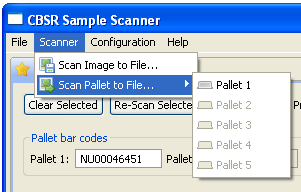
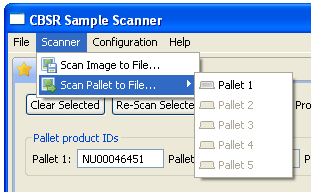
working on user manual

diff --git a/docs/userGuide/scan_and_decode.tex b/docs/userGuide/scan_and_decode.tex
@@ -1,8 +1,6 @@
 \chapter{Scanning and Decoding}
+This chapter discusses how to use the application for scanning and decoding.
 
-The first time the application is run a pallet must be configured prior to
-scanning and decoding pallets. Please see chapter \ref{chap:configuration} for
-instructions on how to configure one or more pallets.
 \begin{figure}[H]
   \centering
   \scalebox{0.35}
@@ -16,6 +14,8 @@ screen will show a decode resutls table for each pallet that is enabled.
 
 To scan one or more pallets follow these steps:
 \begin{enumerate}
+\item If this is the first time using the application please configure at least
+  one pallet \textbf{plate} (see section \ref{sec:plate_positions}) .
 \item Select the scanning profile to be used. Leave the selection on \emph{All}
   if none have been defined.
 \item Enter the pallet barcodes into the pallet barcode text boxes. A USB
@@ -54,4 +54,65 @@ To scan one or more pallets follow these steps:
   clear the product ID text boxes and start scanning a new pallet.
 \end{enumerate}
 
+\section{Error Checking}
+To avoid human error, the application remembers the product IDs of the pallets
+that have been previously scanned. If it detects a duplicate product ID, the
+application will display the dialog box shown in figure
+\ref{fig:duplicate_pallet_id}.
+\begin{figure}[H]
+  \centering
+  \scalebox{0.35}
+	   { \includegraphics*{screenshots/scan_and_decode/duplicate_pallet_id_dialog} }
+	   \caption{Warning dialog displayed when a duplicate pallet ID detected.}
+	   \label{fig:duplicate_pallet_id}
+\end{figure}
+You are given the option of continuing to scan the pallet or cancel the
+scan. If more than one plate is enabled, the other pallets will be decoded.
+
 \section{Multiple Tabs}
+The application has the ability to display decode information on mutiple
+tabs. This may be useful when decoding many pallets and the user wishes to keep
+the information displayed on the screen. The user can quickly switch between
+the two windows by clicking on their corresponding tabs.
+\begin{figure}[H]
+  \centering
+  \scalebox{0.35}
+	   { \includegraphics*{screenshots/scan_and_decode/multiple_tabs} }
+	   \caption{Main window with multiple tabs.}
+	   \label{fig:multiple_tabs}
+\end{figure}
+The tab's name displays the date and time that it was created.
+
+Tab's can also be rearranged by clicking on the tab and dragging it. Figure
+\ref{fig:split_tabs} shows two tabs split horizontally. This was done by
+clicking and dragging the tab down the window until the icon under the mouse
+changes to a down arrow.
+\begin{figure}[H]
+  \centering
+  \scalebox{0.35}
+	   { \includegraphics*{screenshots/scan_and_decode/split_tabs} }
+	   \caption{Split tabs.}
+	   \label{fig:split_tabs}
+\end{figure}
+
+Note that a tab can be closed at any time by pressing the \textbf{X} on the tab
+title. The tab's context menu is shown when you right click on the tab's title.
+\begin{figure}[H]
+  \centering
+  \scalebox{0.35}
+	   { \includegraphics*{screenshots/scan_and_decode/tab_context_menu} }
+	   \caption{A tab's context menu (right click on the tab title).}
+	   \label{fig:tab_context_menu}
+\end{figure}
+
+The functions of the items in this menu are as follows:
+\begin{description}
+\item [Move] Move the tab as to display two tabs side by side either vertically
+  or horizontally. This is the same as clicking on the tab and dragging it.
+\item [Size] Used for resizing the tab.
+\item [Close] Closes the tab.
+\item [Close Others] Closes all tabs except this one.
+\item [Close All]  Closes all tabs. If this is done a new tab can be created by
+  selecting \texttt{File $\to$ New Tab}.
+\item [New Editor] Creates a new tab.
+\end{description}

diff --git a/docs/userGuide/overview.tex b/docs/userGuide/overview.tex
@@ -23,18 +23,21 @@ to scan a single pallet.
 	   \label{fig:main_window}
 \end{figure}
 \begin{description}
-\item[Main Menu] (labelled \emph{1}) allows the user access to the
+\item[Main Menu] (labelled \emph{1}) Allows the user access to the
   different functions provided by the software (see section \ref{sec:main_menu}
   for a description of the menu items).
-\item [Pallet Product Barcode] (labelled \emph{2}) of the pallet to be
-  scanned. This product ID is used in the output file.
-\item [Decoding Profile] (labelled \emph{3}) scanning profiles control which
+\item [Pallet Product IDs] (labelled \emph{2}) The product ID of the of the
+  pallets to be scanned. This product ID is used in the output file. These text
+  boxes are enabled or disabled based on which plates are enabled in the
+  preferences.
+\item [Decoding Profile] (labelled \emph{3}) Scanning profiles control which
   tubes on the pallet will be decoded. Profiles are described in detail in
   section \ref{sec:decoding_profiles}.
 \item [Decode Results] (labelled \emph{4}) This part of the window shows the
   decoded product IDs of the tubes that were decoded for each pallet.
-\item [Status Bar] (labelled \emph{5}) is used to display the current state of the
-  application. It is usually updated after the user has completed a task.
+\item [Status Bar] (labelled \emph{5}) The status bar is used to display the
+  current state of the application. It is usually updated after the user has
+  completed a task.
 \end{description}
 
 \section{Main Menu}

diff --git a/docs/userGuide/configuration.tex b/docs/userGuide/configuration.tex
@@ -123,6 +123,10 @@ To create a new profile follow these instructions:
 \end{enumerate}
 
 \subsection{Plate Positions}
+\label{sec:plate_positions}
+A plate is the region on the flatbed that is used to scan a pallet. Plate 1
+corresponds to Pallet 1 and so on.
+
 On the preferences dialog window, if there is a "plus" symbol next to the
 \emph{Scanning and Decoding} node, press it to expand the sub tree.
     \begin{figure}[H]
